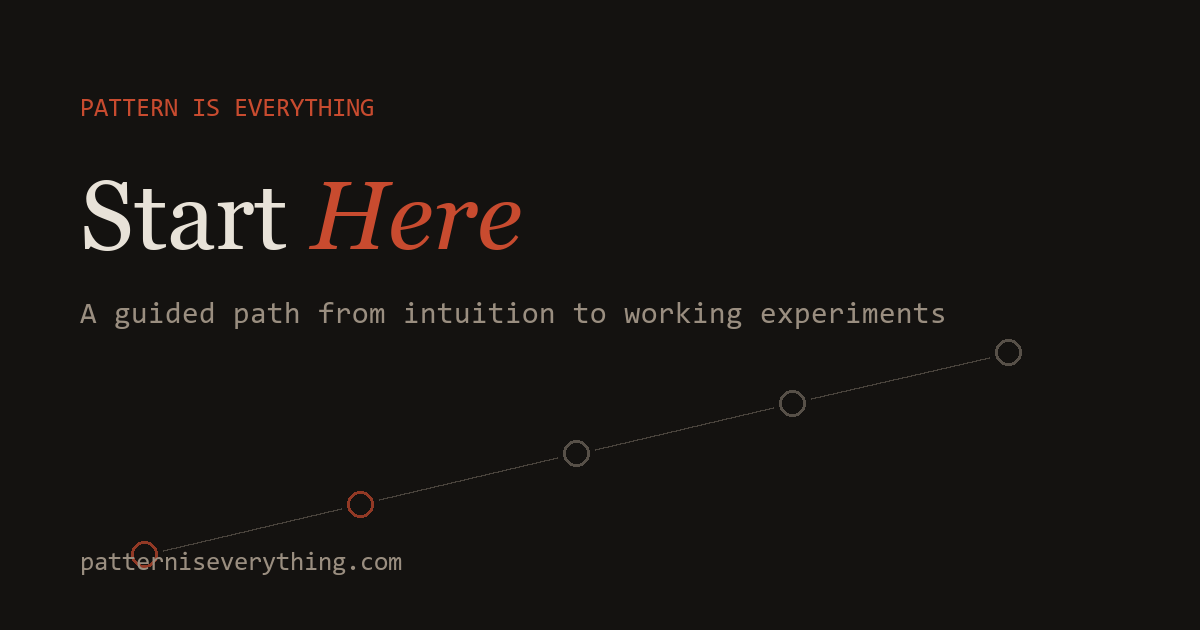
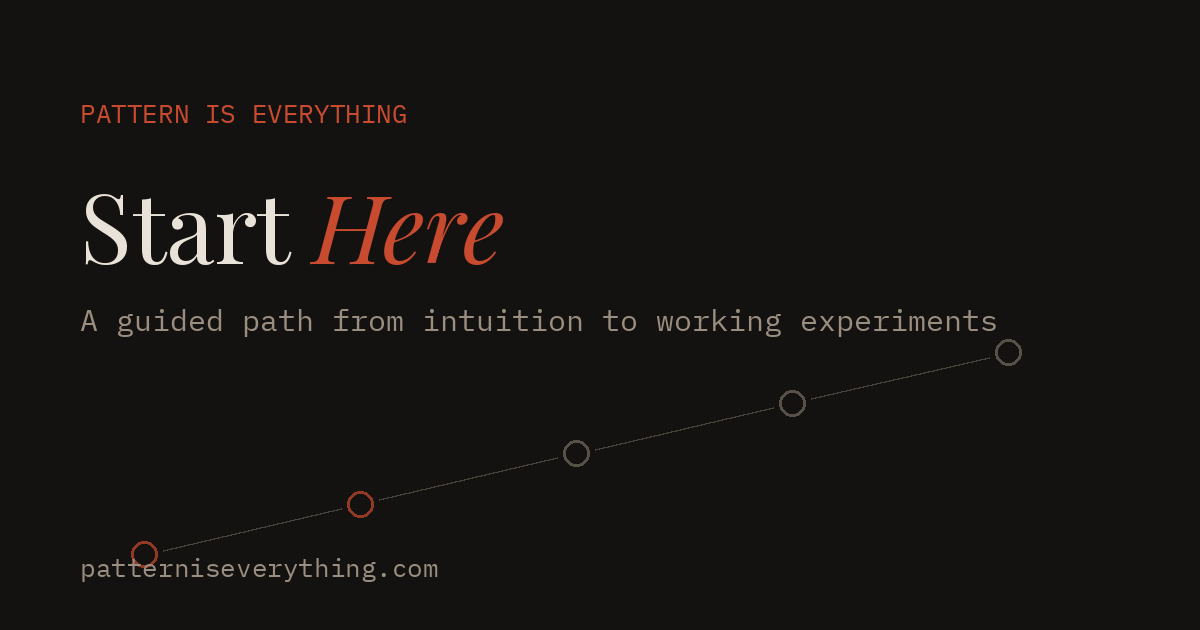
Social preview images: stats OG card, refreshed counts, brand fonts
The social-share images had drifted furthest of anything on the site —
counts are baked into pixels, so no earlier text pass touched them:

- og-ml.png said '149 topics · 5 collections' -> regenerated with
  '118 topics · 4 collections'
- assets/social-preview.png (used by the homepage and most pages) said
  '249 interactive visual references across ML and markets' ->
  '257 interactive references · ML, statistics & markets'
- New og-stats.png for the fourth universe: retention-triangle heatmap
  in gold + rising trend line, matching the homepage universe-card
  preview; stats/index.html og:image/twitter:image/ld+json now point
  to it instead of the generic preview
- manifest.json description still said 249 across ML & Markets -> 257
  incl. Statistics

scripts/build-og.py upgraded along the way:
- Font resolution is now cross-platform and brand-true: prefers the
  site's own self-hosted Playfair Display + IBM Plex Mono (auto-
  converted from assets/fonts/*.woff2 via fonttools), falling back to
  Windows Georgia/Consolas, then DejaVu
- Titles and the home subtitle shrink-to-fit so long names like
  'Statistics & Data Analytics' stay inside the safe area
- build_home() now generates the root social-preview.png too, so every
  share image is reproducible from the script

All seven section cards + the home preview regenerated as one
consistent set. SW cache bumped to v89 (stats page is precached).

Claude-Session: https://claude.ai/code/session_01KVeCUgt3ead6WcFkApTt4m

diff --git a/stats/index.html b/stats/index.html
@@ -39,7 +39,7 @@
     "description": "39 interactive topics — model evaluation, statistical foundations, data analytics, market risk, and Python tooling.",
     "url": "https://patterniseverything.com/stats/",
     "mainEntityOfPage": { "@type": "WebPage", "@id": "https://patterniseverything.com/stats/" },
-    "image": "https://patterniseverything.com/assets/social-preview.png",
+    "image": "https://patterniseverything.com/assets/og/og-stats.png",
     "author": { "@type": "Organization", "name": "Pattern is Everything", "url": "https://patterniseverything.com/" },
     "publisher": {
       "@type": "Organization",
@@ -56,13 +56,13 @@
   <script data-goatcounter="https://patterniseverything.goatcounter.com/count" async src="//gc.zgo.at/count.js"></script>
   <link rel="stylesheet" href="../css/main.css?v=15">
   <meta property="og:url" content="https://patterniseverything.com/stats/">
-  <meta property="og:image" content="https://patterniseverything.com/assets/social-preview.png">
+  <meta property="og:image" content="https://patterniseverything.com/assets/og/og-stats.png">
   <meta property="og:image:width" content="1200">
   <meta property="og:image:height" content="630">
   <meta property="og:site_name" content="Pattern is Everything">
   <meta name="twitter:title" content="The Toolkit — Pattern is Everything">
   <meta name="twitter:description" content="39 interactive topics — model evaluation, statistical foundations, data analytics, market risk, and Python tooling.">
-  <meta name="twitter:image" content="https://patterniseverything.com/assets/social-preview.png">
+  <meta name="twitter:image" content="https://patterniseverything.com/assets/og/og-stats.png">
 
   </head>
 <body>

diff --git a/sw.js b/sw.js
@@ -1,4 +1,4 @@
-const CACHE_NAME = 'pattern-v88';
+const CACHE_NAME = 'pattern-v89';
 const OFFLINE_URL = '/404.html';
 const SHELL = [
   '/index.html',

diff --git a/scripts/build-og.py b/scripts/build-og.py
@@ -1,8 +1,12 @@
 # Generate per-section Open Graph images (1200x630) into assets/og/.
 # Run from the repo root:  python scripts/build-og.py
-# Uses Windows system fonts: Georgia (serif, matches site fallback) + Consolas (mono).
+# Fonts: prefers the site's own self-hosted faces (Playfair Display + IBM Plex
+# Mono, auto-converted from assets/fonts/*.woff2 via fonttools), then Windows
+# Georgia/Consolas, then DejaVu — so output matches the site brand anywhere.
 import math
+import os
 import random
+import tempfile
 from PIL import Image, ImageDraw, ImageFont
 
 W, H = 1200, 630
@@ -14,9 +18,36 @@ GREEN = (42, 125, 95)
 BLUE = (111, 168, 255)
 PURPLE = (139, 79, 168)
 
-GEORGIA = 'C:/Windows/Fonts/georgia.ttf'
-GEORGIA_I = 'C:/Windows/Fonts/georgiai.ttf'
-CONSOLAS = 'C:/Windows/Fonts/consola.ttf'
+def _woff2_to_ttf(woff2_path):
+    try:
+        from fontTools.ttLib.woff2 import decompress
+    except ImportError:
+        return None
+    if not os.path.exists(woff2_path):
+        return None
+    out = os.path.join(tempfile.gettempdir(), 'og-' + os.path.basename(woff2_path) + '.ttf')
+    if not os.path.exists(out):
+        decompress(woff2_path, out)
+    return out
+
+
+def _resolve(*candidates):
+    for c in candidates:
+        p = c() if callable(c) else c
+        if p and os.path.exists(p):
+            return p
+    raise SystemExit('No usable font found among: ' + repr(candidates))
+
+
+SERIF = _resolve(lambda: _woff2_to_ttf('assets/fonts/playfair-display-var.woff2'),
+                 'C:/Windows/Fonts/georgia.ttf',
+                 '/usr/share/fonts/truetype/dejavu/DejaVuSerif.ttf')
+SERIF_I = _resolve(lambda: _woff2_to_ttf('assets/fonts/playfair-display-400-italic.woff2'),
+                   'C:/Windows/Fonts/georgiai.ttf',
+                   '/usr/share/fonts/truetype/dejavu/DejaVuSerif-Italic.ttf')
+MONO = _resolve(lambda: _woff2_to_ttf('assets/fonts/ibm-plex-mono-400.woff2'),
+                'C:/Windows/Fonts/consola.ttf',
+                '/usr/share/fonts/truetype/dejavu/DejaVuSansMono.ttf')
 
 
 def fade(color, alpha):
@@ -107,8 +138,36 @@ def motif_start(d):
                    fill=fade(MUTED, .4), width=2)
 
 
+def motif_stats(d):
+    # Retention-triangle heatmap fading right + a rising trend line — the
+    # analytics dashboard, matching the homepage universe-card preview.
+    GOLD = (200, 169, 110)
+    rows, cols = 4, 8
+    gx, gy = W * .04, H * .55
+    gw, gh = W * .50, H * .30
+    cw, ch = gw / cols, gh / rows
+    for r in range(rows):
+        for m in range(cols - r):
+            v = .78 ** m
+            col = fade(GOLD, .10 + v * .5)
+            d.rectangle([gx + m * cw + 2, gy + r * ch + 2,
+                         gx + (m + 1) * cw - 2, gy + (r + 1) * ch - 2], fill=col)
+    rnd = random.Random(17)
+    x0, x1 = W * .64, W * .96
+    y0, y1 = H * .88, H * .52
+    pts = []
+    for i in range(11):
+        t = i / 10
+        pts.append((x0 + (x1 - x0) * t,
+                    y0 + (y1 - y0) * t + (rnd.random() - .5) * H * .06))
+    d.line(pts, fill=fade(GREEN, .65), width=4)
+    d.line([(x0 - 10, H * .50), (x0 - 10, H * .92), (W * .97, H * .92)],
+           fill=fade(MUTED, .35), width=2)
+
+
 SECTIONS = [
-    ('ml',      'Machine ', 'Learning',  '149 topics · 5 collections · interactive visual references', motif_ml),
+    ('ml',      'Machine ', 'Learning',  '118 topics · 4 collections · interactive visual references', motif_ml),
+    ('stats',   'Statistics & ', 'Data Analytics', '39 topics · statistics, analytics, evaluation, Python', motif_stats),
     ('markets', 'Market ',  'Patterns',  '100 topics · charts, indicators, psychology, risk',          motif_markets),
     ('essays',  'Pattern ', 'Essays',    '12 short visual essays on patterns in the world',            motif_essays),
     ('cases',   'Real-Data ', 'Cases',   '4 practical cases · datasets, pipelines, metrics',           motif_cases),
@@ -121,11 +180,18 @@ def build(slug, t1, t2, sub, motif):
     img = Image.new('RGB', (W, H), BG)
     d = ImageDraw.Draw(img)
     motif(d)
-    kicker_f = ImageFont.truetype(CONSOLAS, 26)
-    title_f = ImageFont.truetype(GEORGIA, 96)
-    title_fi = ImageFont.truetype(GEORGIA_I, 96)
-    sub_f = ImageFont.truetype(CONSOLAS, 30)
-    url_f = ImageFont.truetype(CONSOLAS, 26)
+    kicker_f = ImageFont.truetype(MONO, 26)
+    sub_f = ImageFont.truetype(MONO, 30)
+    url_f = ImageFont.truetype(MONO, 26)
+
+    # Shrink the title until the full line fits inside the safe width
+    size = 96
+    while size > 48:
+        title_f = ImageFont.truetype(SERIF, size)
+        title_fi = ImageFont.truetype(SERIF_I, size)
+        if d.textlength(t1, font=title_f) + d.textlength(t2, font=title_fi) <= W - 160:
+            break
+        size -= 4
 
     x, y = 80, 96
     d.text((x, y), 'PATTERN IS EVERYTHING', font=kicker_f, fill=ACCENT)
@@ -133,7 +199,7 @@ def build(slug, t1, t2, sub, motif):
     d.text((x, y), t1, font=title_f, fill=TEXT)
     w1 = d.textlength(t1, font=title_f)
     d.text((x + w1, y), t2, font=title_fi, fill=ACCENT)
-    y += 140
+    y += 44 + size
     d.text((x, y), sub, font=sub_f, fill=MUTED)
     d.text((80, H - 80), 'patterniseverything.com', font=url_f, fill=MUTED)
 
@@ -142,8 +208,56 @@ def build(slug, t1, t2, sub, motif):
     print(out)
 
 
+def build_home():
+    # Root social preview (assets/social-preview.png) — centered hero layout.
+    img = Image.new('RGB', (W, H), BG)
+    d = ImageDraw.Draw(img)
+
+    # Ambient curves behind the title
+    bell(d, .30, .16, H * .78, H * .42, fade(ACCENT, .30), 3)
+    bell(d, .62, .22, H * .84, H * .36, fade(GREEN, .25), 3)
+    rnd = random.Random(9)
+    y = H * .55
+    pts = []
+    for px in range(0, W + 1, 12):
+        y += (rnd.random() - .5) * H * .05
+        y = max(H * .35, min(H * .8, y))
+        pts.append((px, y))
+    d.line(pts, fill=fade(MUTED, .30), width=3)
+
+    # Logo ring + wordmark
+    cx, cy, r = 122, 112, 26
+    d.ellipse([cx - r, cy - r, cx + r, cy + r], outline=ACCENT, width=5)
+    d.ellipse([cx - 9, cy - 9, cx + 9, cy + 9], fill=ACCENT)
+    brand_f = ImageFont.truetype(SERIF, 44)
+    d.text((176, cy - 30), 'Pattern is Everything', font=brand_f, fill=TEXT)
+
+    # Centered hero title
+    t1_f = ImageFont.truetype(SERIF, 128)
+    t2_f = ImageFont.truetype(SERIF_I, 128)
+    t1, t2 = 'Pattern is', 'Everything'
+    w1 = d.textlength(t1, font=t1_f)
+    w2 = d.textlength(t2, font=t2_f)
+    d.text(((W - w1) / 2, 190), t1, font=t1_f, fill=TEXT)
+    d.text(((W - w2) / 2, 320), t2, font=t2_f, fill=ACCENT)
+
+    sub = '257 interactive references · ML, statistics & markets'
+    size = 32
+    while size > 20:
+        sub_f = ImageFont.truetype(MONO, size)
+        if d.textlength(sub, font=sub_f) <= W - 140:
+            break
+        size -= 2
+    ws = d.textlength(sub, font=sub_f)
+    d.text(((W - ws) / 2, 486), sub, font=sub_f, fill=MUTED)
+
+    img.save('assets/social-preview.png', optimize=True)
+    print('assets/social-preview.png')
+
+
 if __name__ == '__main__':
     import os
     os.makedirs('assets/og', exist_ok=True)
     for spec in SECTIONS:
         build(*spec)
+    build_home()
